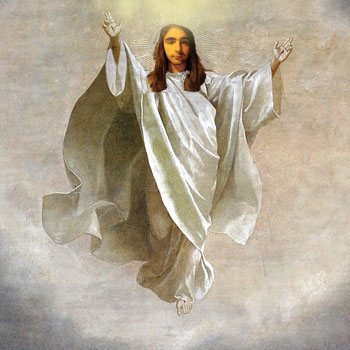
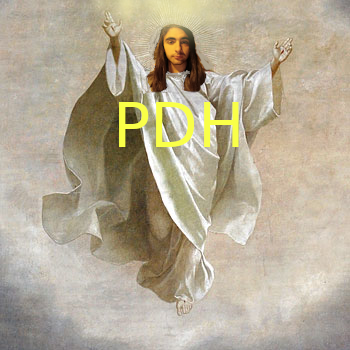
commit8

Changed region(s): [[0.3429, 0.2857, 0.6857, 0.4286]]

diff --git a/index.html b/index.html
@@ -38,39 +38,67 @@
             <div class="partidos">
                 <article>
                     
-                    <img src="assets/logo.png">
-                    <div>
-                        <h3>nombre</h3>
-                        <p>Lorem ipsum dolor sit amet consectetur adipisicing elit. Natus, accusamus dignissimos laborum architecto beatae culpa illo quas deleniti saepe minima ipsam eaque facere aliquam fugit nam, excepturi, mollitia quia ducimus.</p>
-                        <a class="button" href="#">leer mas</a>
+                    <img src="assets/jesus2.png">
+                    
+                    <div class="grupo">
+                        <div>
+                        <h3>PDH</h3>
+                        <p>Mi ideal es un grupo que no se encamine al abismo por tonterías, un grupo que afronte los problemas directa y no pasivamente, un grupo que mantenga unos cimientos duros que no se deshagan con el tiempo, organizar eventos al mínimo coste, crear todo tipo de leyes y castigos que implementen risas en nuestros ciudadanos, me gustaría llevar el grupo para organizarlo de la mejor manera que pueda(me esforzaré de verdad).
+                        </p>
+                        
                     </div>
+                        <div>
+                            <a class="button" href="#">leer mas</a>
+                        </div>
+                    </div>
+                    
+                </article>
+                <article>
+                    
+                    <img src="assets/logolucio.png">
+                    <div class="grupo">
+                        <div>
+                            <h3>Españita querida</h3>
+                            <p>El partido Españita querida, Nuestras ideas son claras llevar a España al estrellato, eliminar a las feministas y al lqcysios+++</p>
+                        
+                        </div>
+                        <div>
+                            <a class="button" href="#">leer mas</a>
+                        </div>
+                    </div>
+                    
+
                 </article>
                 <article>
                     
                     <img src="assets/logo.png">
-                    <div>
-                        <h3>nombre</h3>
-                        <p>Lorem ipsum dolor sit amet consectetur adipisicing elit. Natus, accusamus dignissimos laborum architecto beatae culpa illo quas deleniti saepe minima ipsam eaque facere aliquam fugit nam, excepturi, mollitia quia ducimus.</p>
-                        <a class="button" href="#">leer mas</a>
+                        <div class="grupo">
+                        <div>
+                            <h3> D.P.E.E (Droga Permitida En España)</h3>
+                            <p>Me gustaría que este grupo fuese hacia el futuro, con mi partido aceptare la drogra ya que es un método tranquilizante y relajante, también creare varios grupos dentro del grupo para cosas especificas como por ejemplo una sala de debate, sala de juegos, cárcel, etc.
+                            </p>
+                            
+                        </div>
+                        <div>
+                            <a class="button" href="martinez.html">leer mas</a>
+                        </div> 
                     </div>
+                    
                 </article>
                 <article>
                     
-                    <img src="assets/logo.png">
-                    <div>
-                        <h3>nombre</h3>
-                        <p>Lorem ipsum dolor sit amet consectetur adipisicing elit. Natus, accusamus dignissimos laborum architecto beatae culpa illo quas deleniti saepe minima ipsam eaque facere aliquam fugit nam, excepturi, mollitia quia ducimus.</p>
-                        <a class="button" href="#">leer mas</a>
+                    <img src="assets/bolsa-dinero.jpg">
+                    <div class="grupo">
+                        <div>
+                            <h3>S-N-M-P-S-G-P (si no me presentaba soy gay, putos)</h3>
+                            <p>Deseo un grupo donde no gobiernen los franceses, y no hare nada mas ya que estoy obligado a presentarme no ha crear un partido en serio, a ver especificado</p>
+                            
+                        </div>
+                        <div>
+                            <a class="button" href="#">leer mas</a>
+                        </div>
                     </div>
-                </article>
-                <article>
                     
-                    <img src="assets/logo.png">
-                    <div>
-                        <h3>nombre</h3>
-                        <p>Lorem ipsum dolor sit amet consectetur adipisicing elit. Natus, accusamus dignissimos laborum architecto beatae culpa illo quas deleniti saepe minima ipsam eaque facere aliquam fugit nam, excepturi, mollitia quia ducimus.</p>
-                        <a class="button" href="#">leer mas</a>
-                    </div>
                 </article>
             </div>
             

diff --git a/martinez.html b/martinez.html
@@ -1,0 +1,48 @@
+<!DOCTYPE html>
+<html lang="en">
+<head>
+    <meta charset="UTF-8">
+    <meta name="viewport" content="width=device-width, initial-scale=1.0">
+    <title>Document</title>
+    <link href="https://cdn.jsdelivr.net/npm/bootstrap@5.3.3/dist/css/bootstrap.min.css" rel="stylesheet" integrity="sha384-QWTKZyjpPEjISv5WaRU9OFeRpok6YctnYmDr5pNlyT2bRjXh0JMhjY6hW+ALEwIH" crossorigin="anonymous">
+    <link rel="stylesheet" href="styles/styles.css">
+    <link rel="stylesheet" href="https://cdn.jsdelivr.net/npm/swiper@11/swiper-bundle.min.css" />
+
+</head>
+<body>
+    <header>
+        <nav id="nav_bar" >
+            <ul>
+                <li><img src="assets/logo.png"></li>
+            </ul>
+            <ul>
+                <li><a href="index.html">Inicio</a></li>
+                <li><a href="index.html">Partidos</a></li>
+                <li><a href="index.html">Sobre nosotros</a></li>
+                <li><a href="assets/drogao2.png">Perra</a></li>
+            </ul>
+
+            
+        </nav>
+    </header>
+    <main>
+    
+    </main>
+
+
+
+
+
+    <script src="https://cdn.jsdelivr.net/npm/swiper@11/swiper-bundle.min.js"></script>
+
+    <!-- Initialize Swiper -->
+    <script>
+      var swiper = new Swiper(".mySwiper", {
+        autoplay: {
+            delay: 5000,
+        },
+        
+      });
+    </script>
+</body>
+</html>

diff --git a/styles/styles.css b/styles/styles.css
@@ -95,18 +95,27 @@ section{
 }
 
 .partidos article {
-    
+
+  
    box-shadow:  0px 1px 20px rgba(0, 0, 0, 0.061);
    border-radius: 20px;
    
 }
 
-.partidos div {
+.partidos .grupo {
+    height: 409px;
+    display: grid;
     padding: 20px;
+    justify-items: start;
+    align-content: space-between;
+    
+    
 }
 .partidos img {
+    
 
     width: 100%;
+    border-radius: 10px 10px 0px 0px;
 }
 
 .partidos a{
